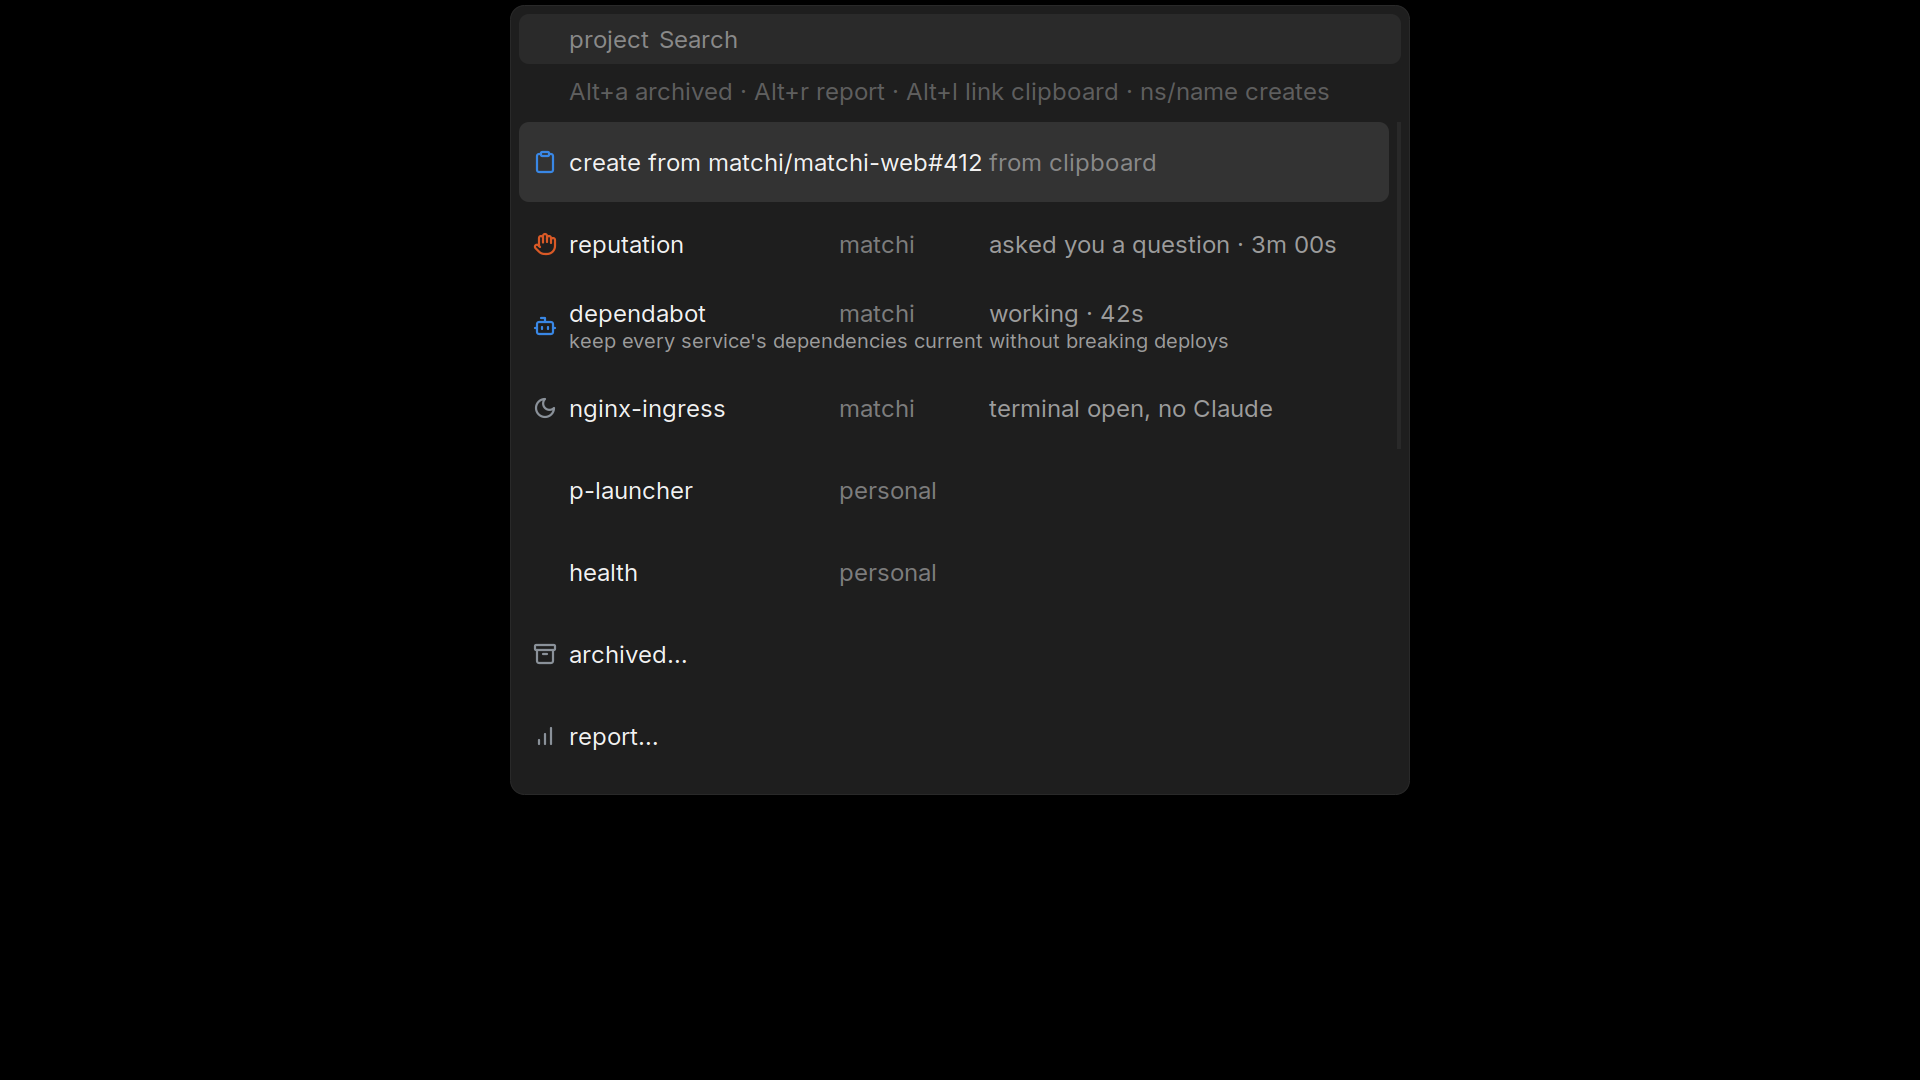
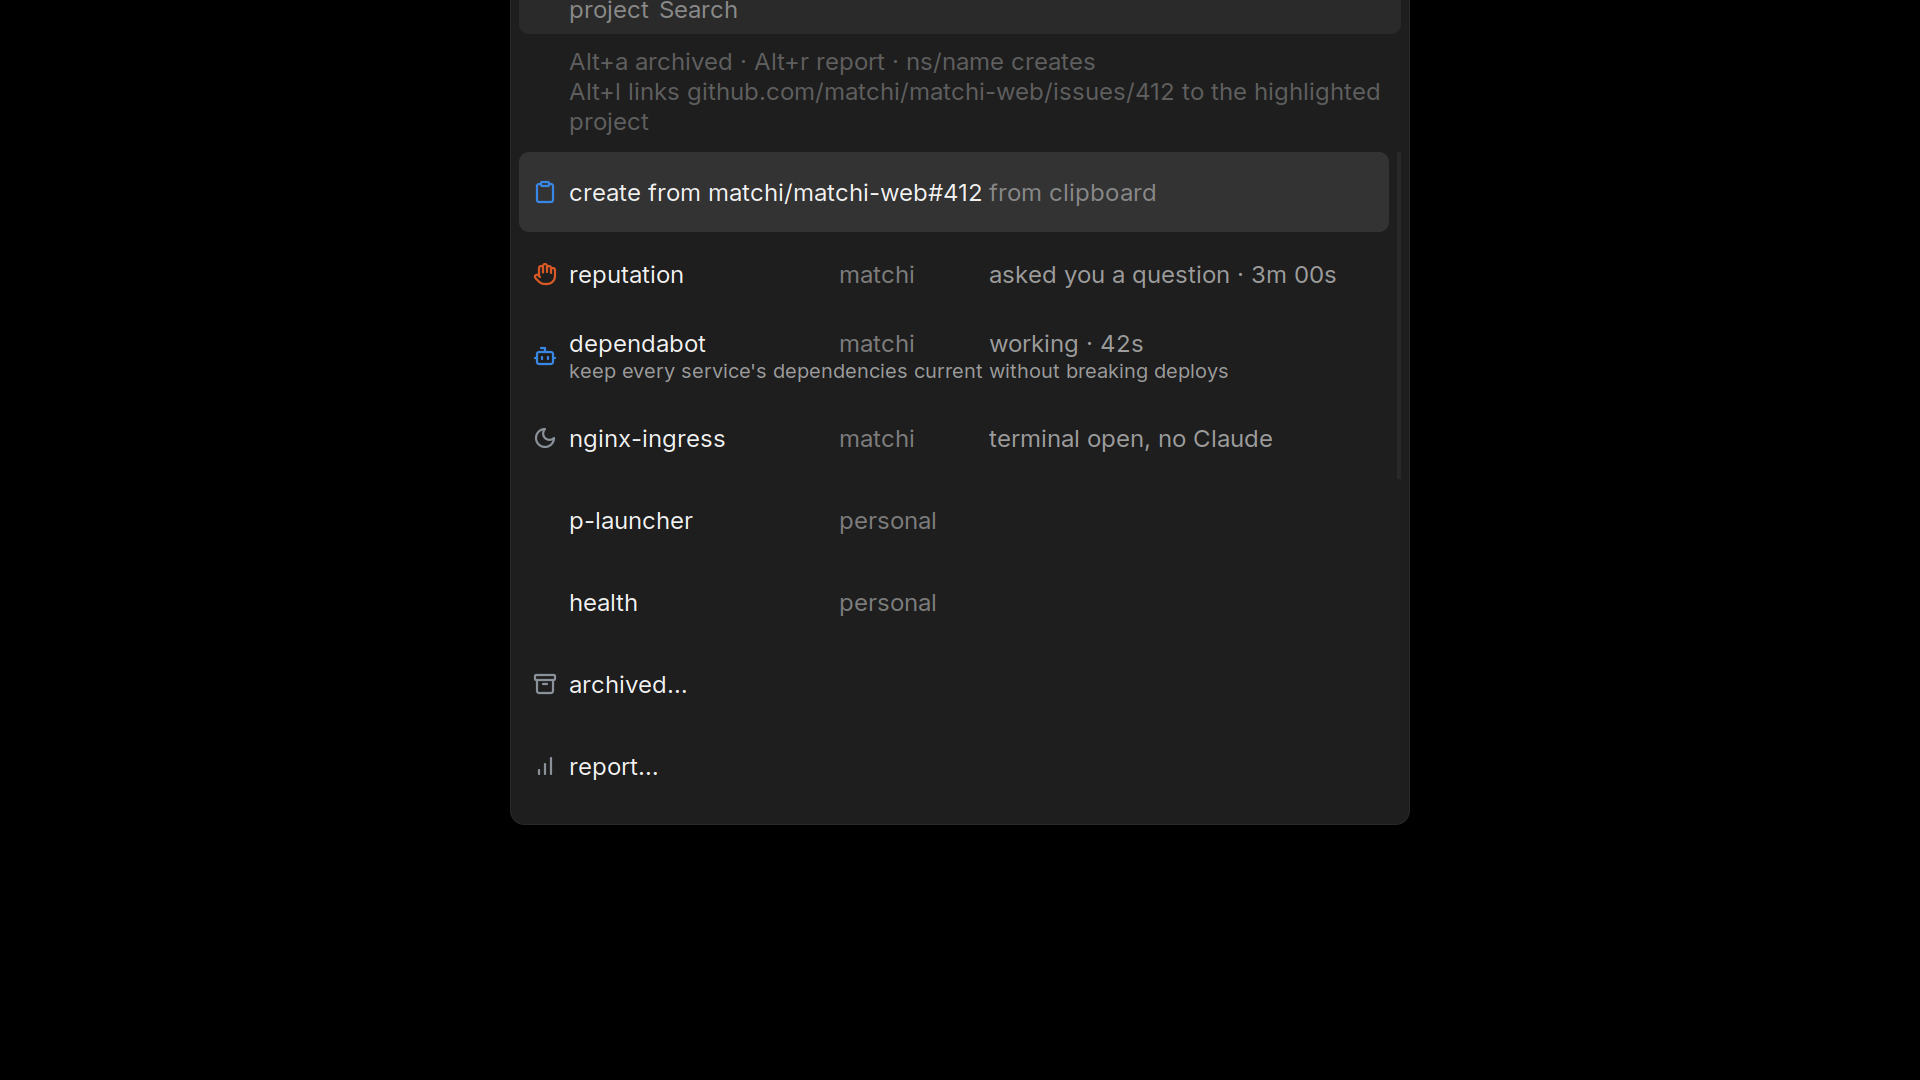
p-launcher: Alt+l hint only when the clipboard holds a GitHub URL

diff --git a/p-launcher/menu.go b/p-launcher/menu.go
@@ -145,9 +145,24 @@ const (
 	chordLink     = 3 // link the clipboard URL to the highlighted project
 )
 
-func mainMenuExtra() []string {
-	return []string{"-kb-custom-1", "Alt+a", "-kb-custom-2", "Alt+r", "-kb-custom-3", "Alt+l",
-		"-mesg", `<span alpha="60%">Alt+a archived · Alt+r report · Alt+l link clipboard · ns/name creates</span>`}
+// mainMenuExtra registers the chords and builds the hint line(s). The Alt+l
+// hint appears only when the clipboard holds a GitHub URL, on a second line
+// naming it (host-less, truncated), so the chord is offered when it can act.
+func mainMenuExtra(clip string) []string {
+	mesg := `<span alpha="60%">Alt+a archived · Alt+r report · ns/name creates</span>`
+	if ref, ok := parseGitHubURL(clip); ok {
+		mesg += "\n" + `<span alpha="60%">Alt+l links ` + html.EscapeString(truncate(strings.TrimPrefix(ref.URL, "https://"), 60)) + ` to the highlighted project</span>`
+	}
+	return []string{"-kb-custom-1", "Alt+a", "-kb-custom-2", "Alt+r", "-kb-custom-3", "Alt+l", "-mesg", mesg}
+}
+
+// truncate cuts s to n runes with an ellipsis.
+func truncate(s string, n int) string {
+	r := []rune(s)
+	if len(r) <= n {
+		return s
+	}
+	return string(r[:n-1]) + "…"
 }
 
 // clipboardOffer turns the clipboard into at most one docked row at the top:
@@ -234,7 +249,7 @@ func menuMode(s *Store, root, toggleKey, iconDir string, archived bool) error {
 		fmt.Fprintln(os.Stderr, "p-launcher: icons unavailable:", err)
 		icons = nil
 	}
-	prompt, extra := "project", mainMenuExtra()
+	prompt, extra := "project", mainMenuExtra(clip)
 	if archived {
 		prompt, extra = "archived / postponed", nil
 	}

diff --git a/p-launcher/golden_test.go b/p-launcher/golden_test.go
@@ -158,14 +158,15 @@ func TestGoldenRofiMenu(t *testing.T) {
 		{Path: "personal/health", Name: "health", Label: "personal"},
 	}
 	open := map[string]bool{"p:m/reputation": true, "p:m/dependabot": true, "p:m/nginx-ingress": true}
-	rows := rowsAt(ps, open, true, now) // fixed clock: stable durations in the golden
-	if offer, ok := clipboardOffer("https://github.com/matchi/matchi-web/issues/412", func(string) (string, bool) { return "", false }); ok {
-		rows = append([]Row{offer}, rows...) // an unknown issue in the clipboard
+	rows := rowsAt(ps, open, true, now)                       // fixed clock: stable durations in the golden
+	clip := "https://github.com/matchi/matchi-web/issues/412" // an unknown issue in the clipboard
+	if offer, ok := clipboardOffer(clip, func(string) (string, bool) { return "", false }); ok {
+		rows = append([]Row{offer}, rows...)
 	}
-	// the same arguments menuMode uses for the main list, hint line included
+	// the same arguments menuMode uses for the main list, hint lines included
 	// -theme pins the dark variant: the live config follows the system color
 	// scheme (bin/color-scheme), and a golden must not depend on the time of day
-	cmd := exec.Command("rofi", append(append(append(rofiArgs("project", "F5"), mainMenuExtra()...), rowHeightArgs(ps)...), "-theme", "cards-dark")...)
+	cmd := exec.Command("rofi", append(append(append(rofiArgs("project", "F5"), mainMenuExtra(clip)...), rowHeightArgs(ps)...), "-theme", "cards-dark")...)
 	cmd.Env = append(os.Environ(), "DISPLAY="+display)
 	cmd.Stdin = bytes.NewReader(rofiInput(rows, icons))
 	if err := cmd.Start(); err != nil {

diff --git a/p-launcher/verbs_test.go b/p-launcher/verbs_test.go
@@ -140,6 +140,28 @@ func TestClipboardOffer(t *testing.T) {
 	}
 }
 
+func TestMainMenuExtraHint(t *testing.T) {
+	args := mainMenuExtra("")
+	plain, mesg := strings.Join(args, "\x00"), args[len(args)-1]
+	if strings.Contains(mesg, "Alt+l") || !strings.Contains(plain, "-kb-custom-3\x00Alt+l") {
+		t.Fatalf("without a URL the chord stays registered but is not advertised: %q", plain)
+	}
+	withURL := strings.Join(mainMenuExtra("https://github.com/o/r/pull/7\n"), "\x00")
+	if !strings.Contains(withURL, "\nAlt+l links github.com/o/r/pull/7 to the highlighted project") && !strings.Contains(withURL, `">Alt+l links github.com/o/r/pull/7 to`) {
+		t.Fatalf("%q", withURL)
+	}
+	if strings.Contains(withURL, "https://") {
+		t.Fatal("protocol must be dropped")
+	}
+	long := "https://github.com/" + strings.Repeat("a", 80) + "/r/issues/1"
+	if got := strings.Join(mainMenuExtra(long), "\x00"); !strings.Contains(got, "…") {
+		t.Fatalf("long URL not truncated: %q", got)
+	}
+	if got := truncate("abcdef", 4); got != "abc…" {
+		t.Fatalf("%q", got)
+	}
+}
+
 func TestRowHeightArgs(t *testing.T) {
 	if got := rowHeightArgs([]Project{{Path: "m/a"}, {Path: "m/b"}}); got != nil {
 		t.Fatalf("no descriptions must keep single-line rows: %v", got)
